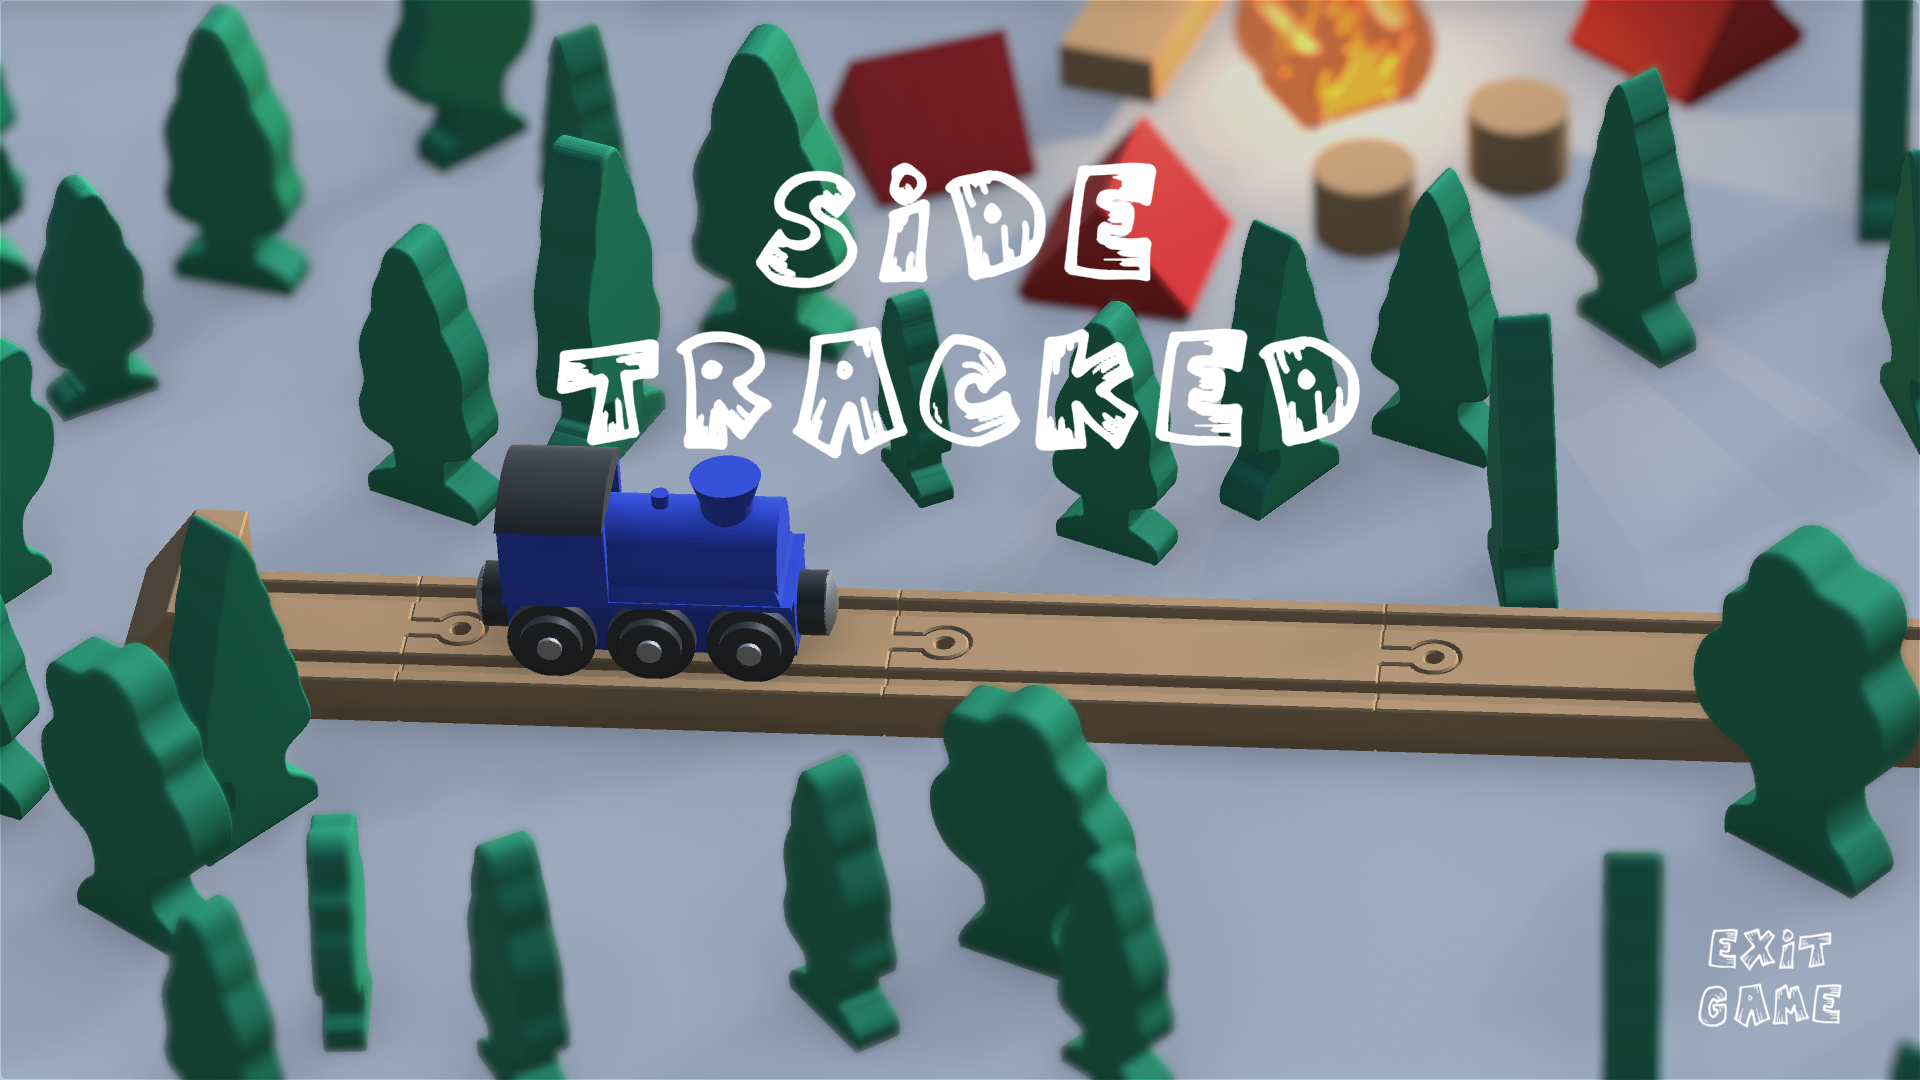
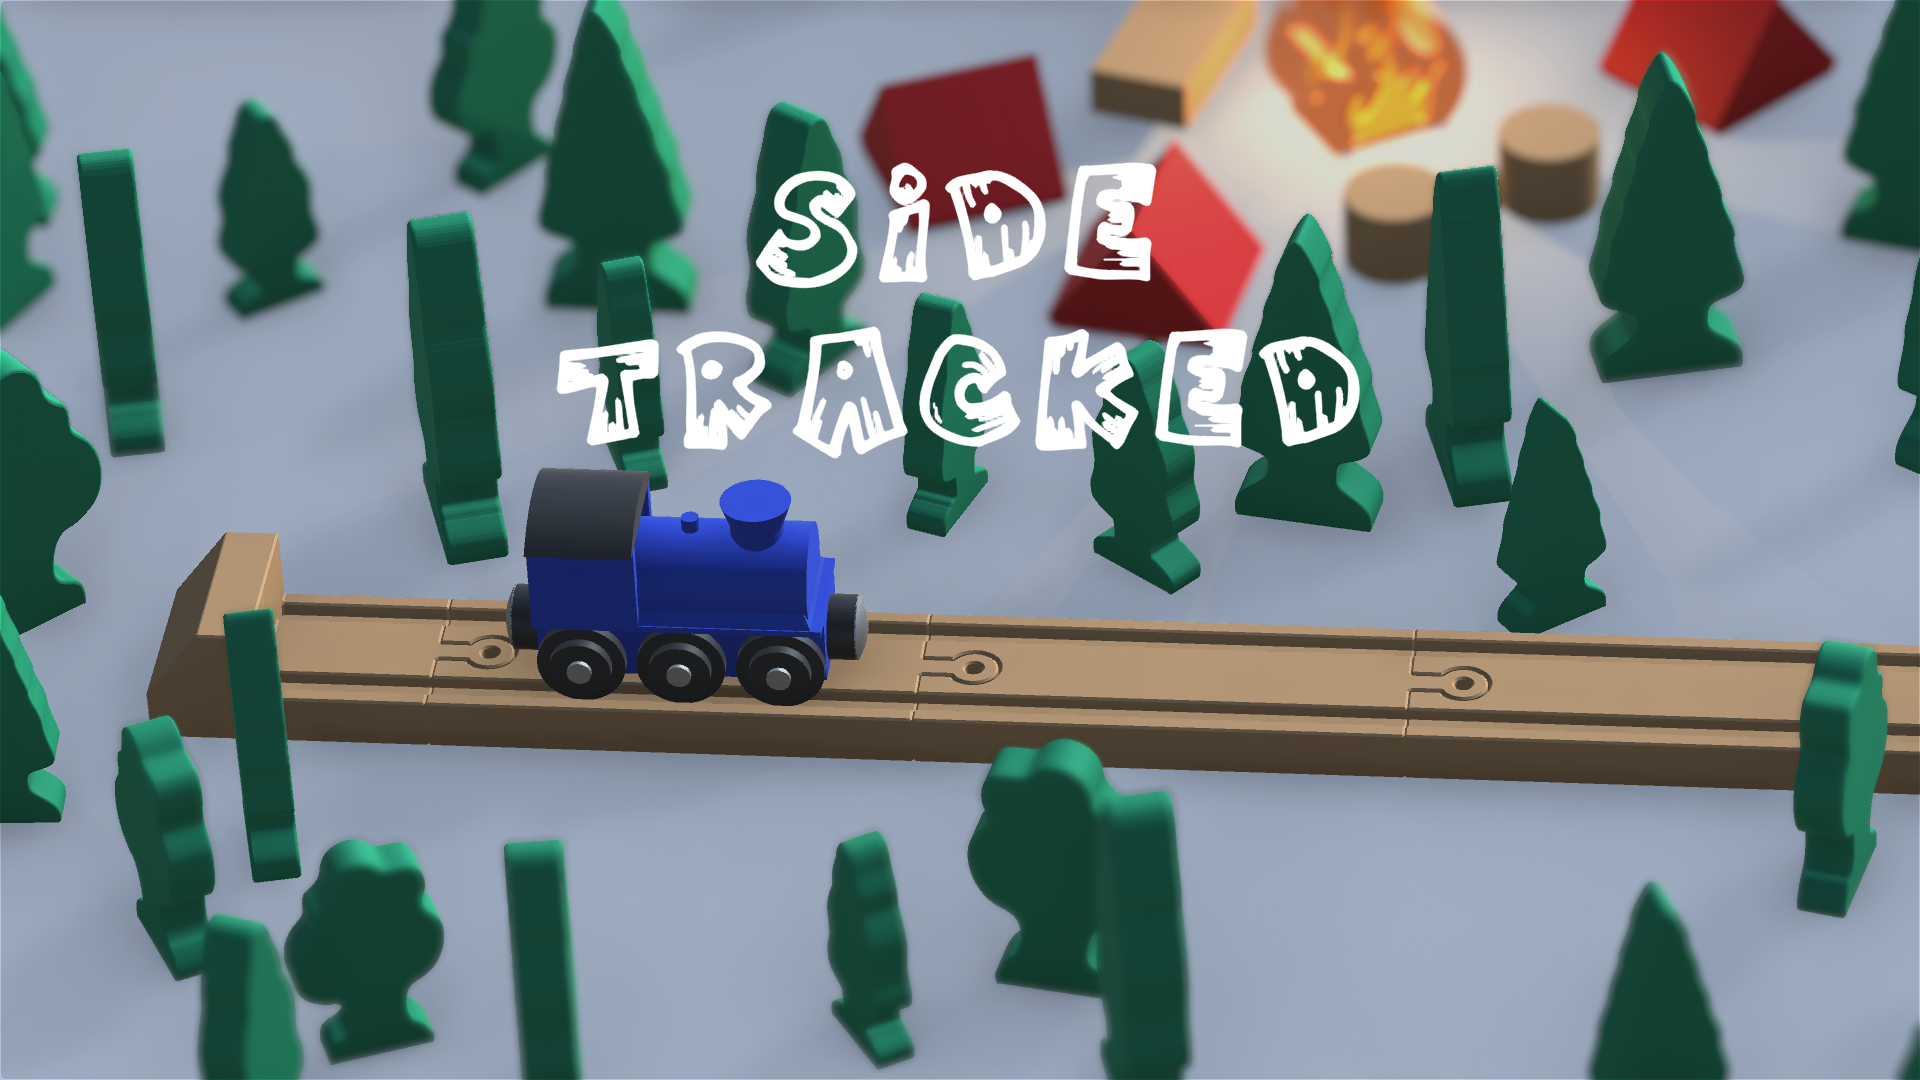
Replace images for better fit

diff --git a/index.html b/index.html
@@ -212,7 +212,7 @@
             <div class="project_frame">
                 <a href="sidetracked.html" class="project_link">
                     <div class="project_frame_container">
-                        <img src="SideTrackedCover.png" class="project_image">
+                        <img src="SideTrackedWithTitle.png" class="project_image">
                         <div class="project_desc">
                             <h1 class="project_title">Side Tracked</h1>
                             <p class="project_text">C#, Unity, Game jam, Web game</p>
@@ -236,7 +236,7 @@
             <div class="project_frame">
                 <a href="farsighted-mobs.html" class="project_link">
                     <div class="project_frame_container">
-                        <img src="farsighted-logo.png" class="project_image">
+                        <img src="farsighted-preview.png" class="project_image">
                         <div class="project_desc">
                             <h1 class="project_title_long">Farsighted Mobs Rework</h1>
                             <p class="project_text">Java, Game modification, Developer tool</p>
